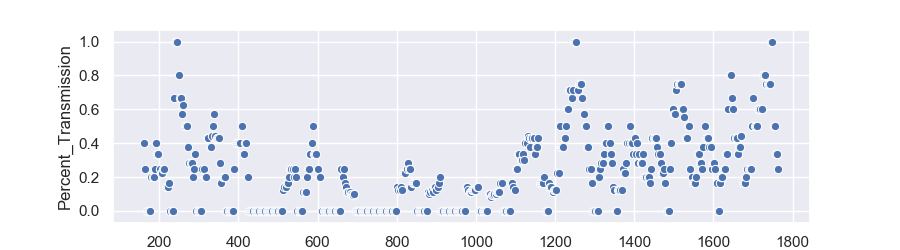
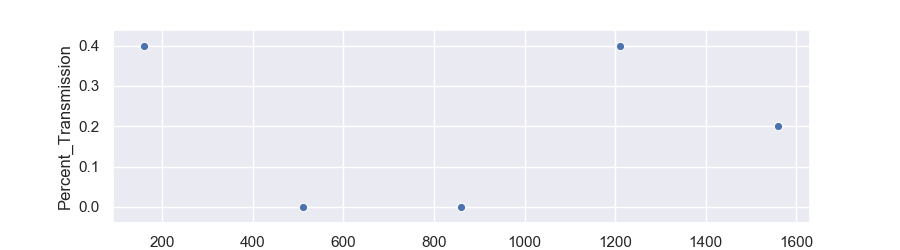
add argument errors for user

diff --git a/xml_file_to_pandas_df.py b/xml_file_to_pandas_df.py
@@ -7,6 +7,7 @@ xml parser function
 Takes an xml file and returns a list of category and x/y coordinates for each
 kernel.
 """
+import sys
 import numpy as np
 import xml.etree.ElementTree as ET
 import pandas as pd
@@ -115,11 +116,27 @@ def sliding_window(df, w, s):
 	final_x_coord = df["X-Coordinate"].tail(1)
 	int_fxc = int(final_x_coord)
 
+	adj_fxc = int_fxc - 150
+
+	adj_step_fxc = int_fxc * 0.25
+
+	if (int_w >= adj_fxc):
+		sys.exit('Width of window is too large, enter smaller width value.')
+
+	if (int_s >= adj_step_fxc):
+		sys.exit('Step size is too large, enter smaller value.')
+
+
 	while end_x <= int_fxc:
 
 		rslt_df = df[(df['X-Coordinate'] >= int_start_x) & (df['X-Coordinate'] <= end_x)]
 
-		kernel_tot = len(rslt_df.index)
+		kernel_tot = int(len(rslt_df.index))
+
+
+		if (kernel_tot == 0):
+			sys.exit('0 Kernels in Window, please enter larger width value.')
+
 		window_start = int_start_x
 		window_end = end_x
 
@@ -149,7 +166,7 @@ def sliding_window(df, w, s):
 
 coordinates = parse_xml("/Users/elysevischulis/Downloads/X401x492-2m1.xml")
 
-ordered_coord = sliding_window(coordinates, 34, 3)
+ordered_coord = sliding_window(coordinates, 30, 500)
 
 
 def tot_kern_scatter ( kern_count_df ):
@@ -180,4 +197,3 @@ def transmission_scatter ( kern_count_df ):
 
 transmission_scatter(ordered_coord)
 
-# comment
